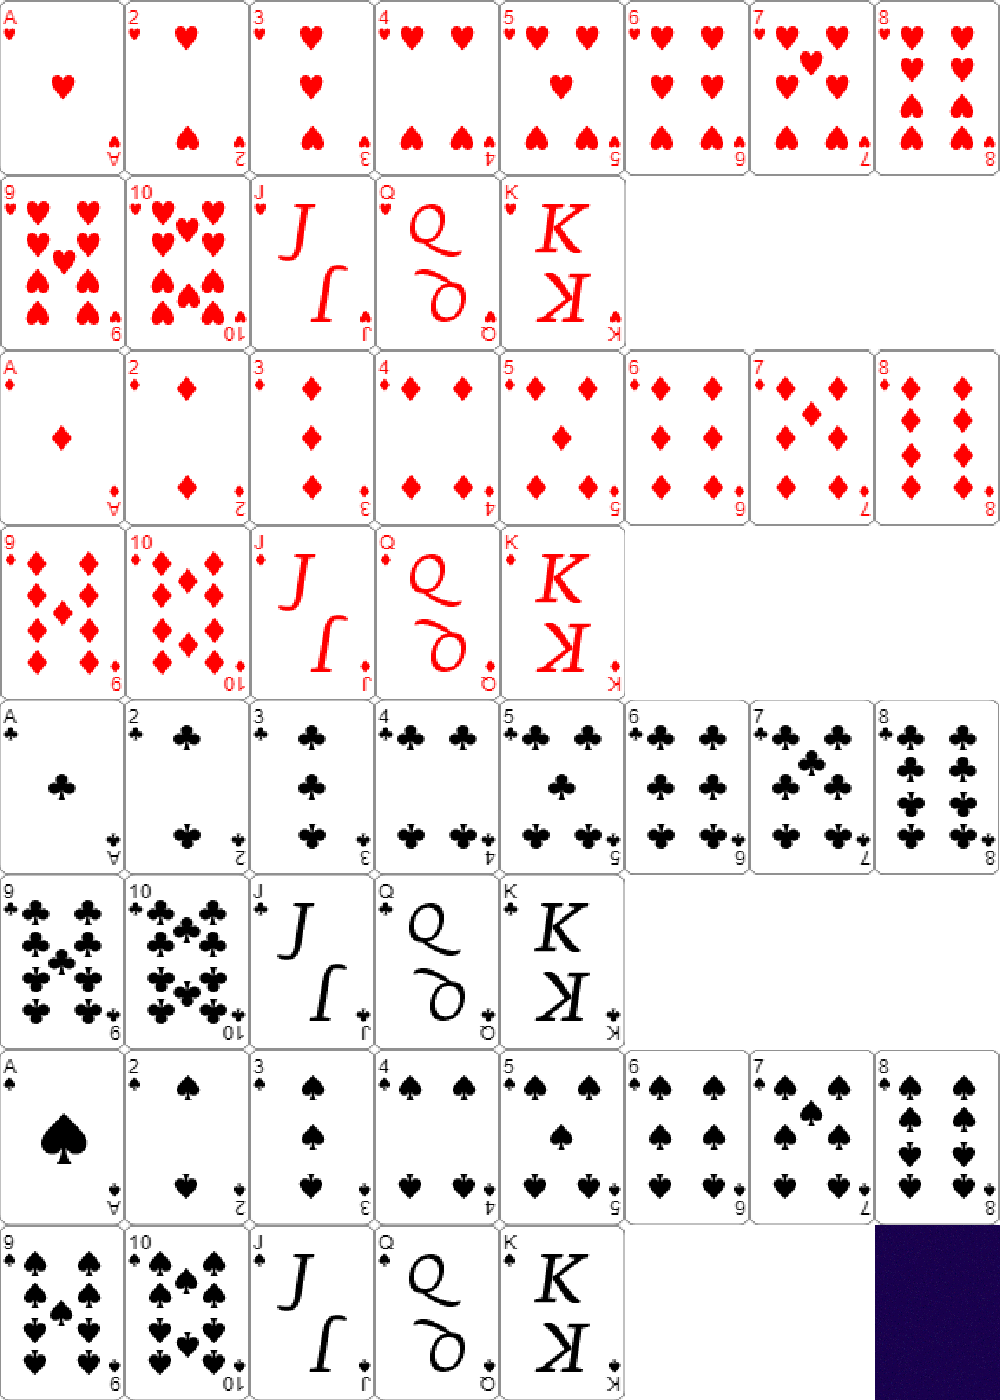
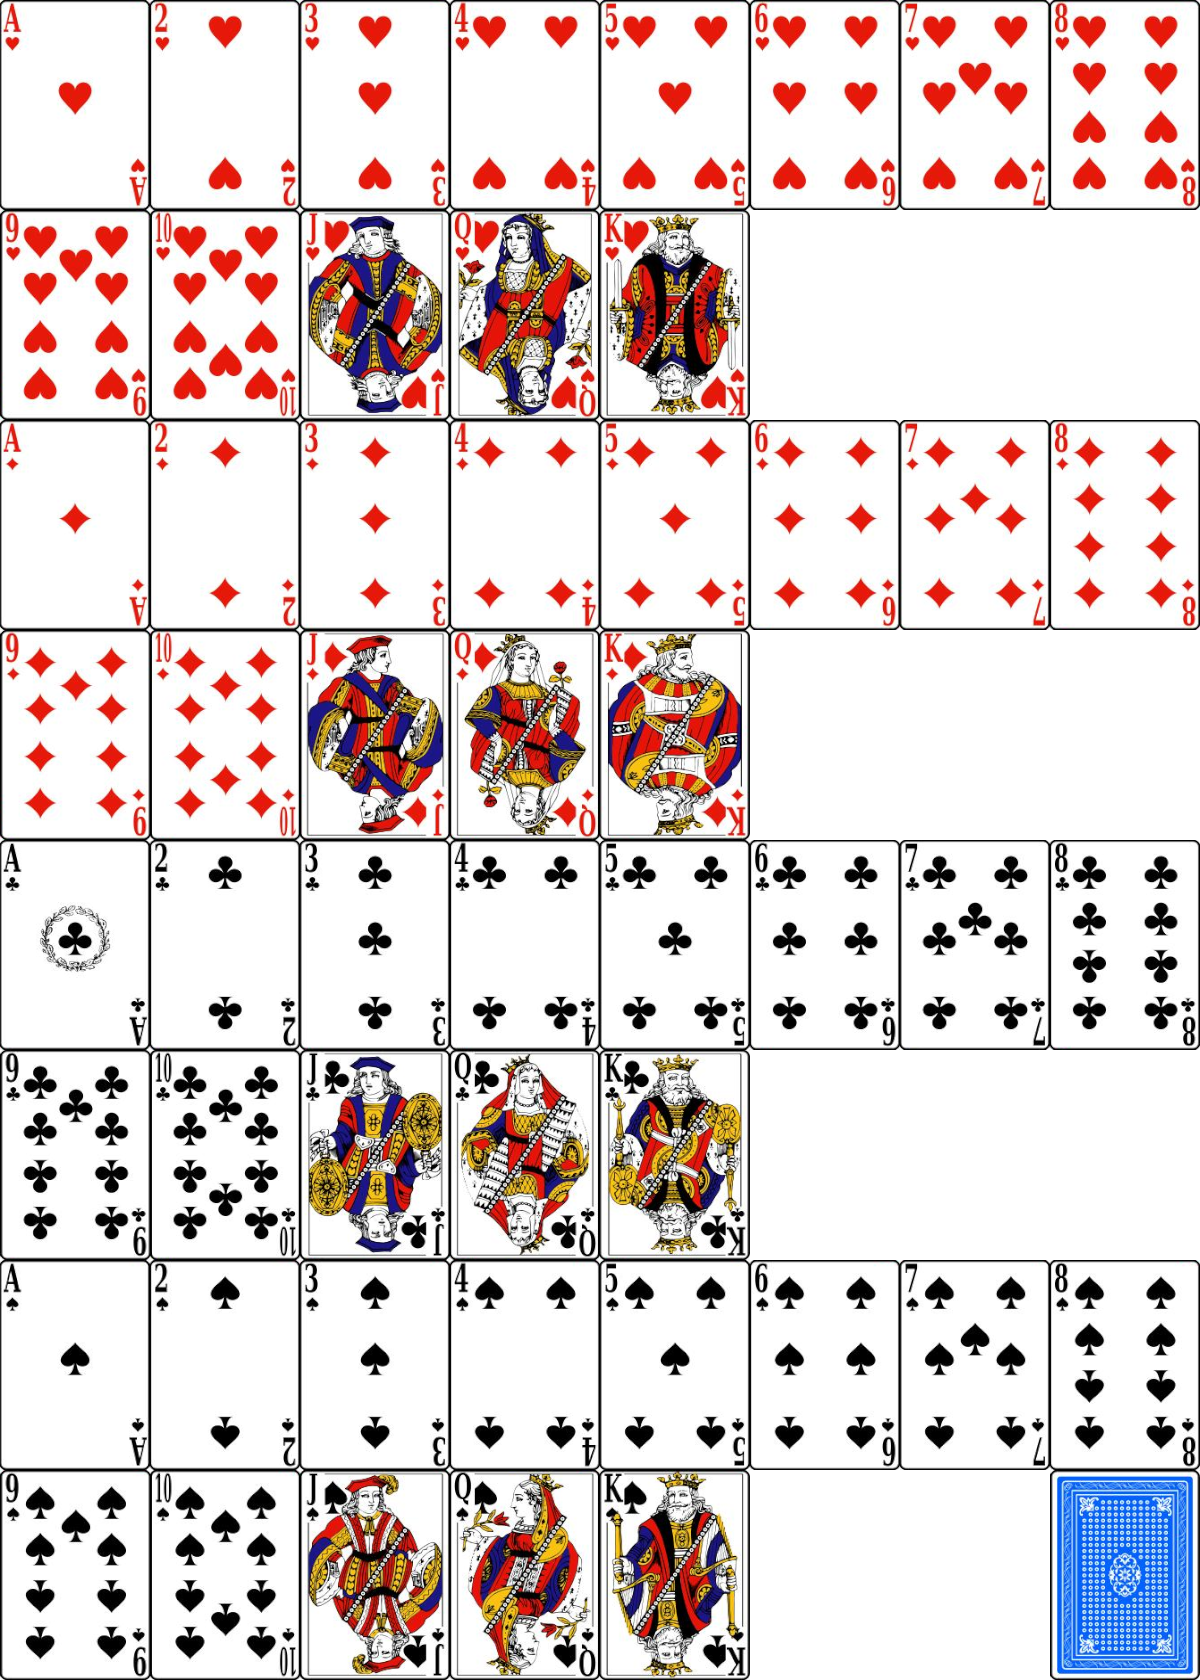
added updated card texture, Big bug,

diff --git a/GameLogic/Player.java b/GameLogic/Player.java
@@ -97,6 +97,8 @@ public class Player {
             }
         }
 
+        hand_sorted.forEach(card -> {card.print();});
+
         int highest = 0;
         int highcard = hand_sorted.get(6).num;
         for(int i = 0; i < 3; i++){

diff --git a/Main.java b/Main.java
@@ -8,5 +8,7 @@ public class Main{
         // adriqn did it
         // I did it
         // kevin😂
+        //ayo weres the spec for card texture
+        
     }
 }
